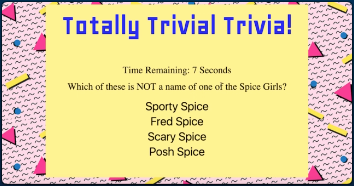
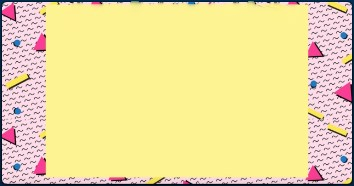
Attempting to place candy objects into collection of objects inside of the game object.

diff --git a/assets/javascript/app.js b/assets/javascript/app.js
@@ -3,14 +3,102 @@ $(document).ready(function(){
     /*******************/
     /****   VARS    ****/
     /*******************/
-    var ansCorrect = 0; // Set at beginning of app and at restart
-    var ansInCorrect = 0; // Set at beginning of app and at restart
-    var unAnswered = 0;
-    var gameOver = false;
-    var corrAnsButtonNum = 0; // Will be randomized
-    var wrongAnsButtonNums = []; // 
-    var candyObjArr = []; // An array of objects, pushed on after being generated, access via index for randomness
-    var ansLocSelected;  // Count up to 4 or start at 4 and quit when it's zero...
+    // Game Object: SET Game parameters with list of 10 of the 16 possible raw candy objects
+    var gameObj = {
+        // Vars
+        // Game Size, Raw Candy Bar Instantiations, and how many will be selected per game
+        numOfRawCandy    : 16,
+        numOfQsPerGame   : 10,
+        numOfAnsPerQ     : 4,  // This may become randomized later, but for now, we're starting with fixed at 4
+        gameQListNums    : [], // Index numbers for which 10 of the 16 candy objects will be used in this game.
+        gameQsObjectsObj : {}, // Collection in an object of the actual Candy object of each candy / question in this game
+        objNamesArr      : [], // Capture the object names we created while consuming raw candy in an array
+
+        // Methods
+    
+        fillAllWrongAns  : function() {
+            for (var j=0; j< this.gameQListNums.length; j++) {
+                console.log("this.gameQListNums[j] = " + this.gameQListNums[j] + " j = " + j)
+                console.log("this.objNamesArr[this.gameQListNums[j]] = " + this.objNamesArr[this.gameQListNums[j]])
+                // this.objNamesArr[this.gameQListNums[j]].fillWrongAnsStrArr();
+                console.log("NamesArr[QListNum[j]] = " + this.objNamesArr[this.gameQListNums[j]]); //Where is NAME / function ???
+                console.log("========================================================")
+                console.log(Object.keys(gameObj.gameQsObjectsObj[j]));
+                console.log("========================================================")
+                console.log("this.QsObjObj[j] = " + this.gameQsObjectsObj[j]);
+                // this.gameQsObjectsObj[j]fillWrongAnsStrArr();
+            };
+        },
+
+        fillPresentedAns : function () {
+            for( var k=0; k < this.gameQListNums.length; k++) {
+                for( var ii = 0; ii < this.numOfAnsPerQ; ii++) {
+                    if ( ii === this.gameQsObjectsObj[k].corrAnsLoc) {
+                        this.gameQListNums[k].presentedAnswers[ii] = this.gameQListNums[k].name;
+                    } else {
+                        this.gameQListNums[k].presentedAnswers[ii] = this.gameQListNums[k].wrongAnsStrArr[ii];
+                    }
+                };
+            };
+        },
+
+        genQListArr      : function () {
+            this.getRandNoRepeat( this.numOfQsPerGame, this.numOfRawCandy, this.gameQListNums)
+        },
+
+        getRandNoRepeat : function( numOfItems, rangeIn, arrayToFill ) {
+            // Get First one, then enter loop to get rest that checks 
+            // against what has already been generated for no duplicate
+            // numbers.
+            var numOfItemsFound = 0;
+            var randNum = Math.floor(Math.random() * rangeIn); // Get the first one...
+            arrayToFill.push(randNum); 
+            numOfItemsFound++;
+            // Then enter loop
+            while( numOfItemsFound < numOfItems ) {
+                randNum = Math.floor(Math.random() * rangeIn);
+                var found = false;
+                for (var i=0; i<arrayToFill.length; i++) {
+                    if (randNum === arrayToFill[i] )
+                        found = true;
+                };
+                if (!found) {
+                    arrayToFill.push(randNum);
+                    numOfItemsFound++;
+                };
+                console.log("arrayToFill = " + arrayToFill)
+            };
+        },
+
+        setCorrAnsLoc    : function() {
+            // Range in is the number of buttons / choices per question
+            return getRandNum(this.numOfAnsPerQ);
+        }
+    };
+
+    // Game stats
+    gameStats= {
+        // Vars
+        totalQsToAsk  : gameObj.numOfQsPerGame, // 10, // Could be randomized later
+        ansCorrect    : 0, // Set at beginning of app and at restart
+        ansInCorrect  : 0, // Set at beginning of app and at restart
+        unAnswered    : 0,
+        gameOver      :  false,
+        // Methods 
+        totalQsCmpl   : function () {ansCorrect + ansInCorrect + unAnswered}
+    };
+
+
+
+    // // TBD IF NEEDED... Question Object's Properties Initialization
+    // var corrAnsButtonNum = 0; // Will be randomized
+    // var wrongAnsButtonNums = []; // 0 to 3 excluding the correct answer locaton
+    // var candyObjArr = []; // An array of 16 objects, pushed on after being generated, access via index for randomness
+    // var ansLocSelected;  // Answers per question (up to 4) or start at 4 and quit when it's zero...
+    // // This games vars initialization
+    // var thisGamesQsArr = []; // 10 non-repeating random numbers from 0 to 15
+    // var thisQsWrongAnsArr = []; // 3 of 0 to 15 candy objects, re-used 10 times durinvg init of this game
+
 
     // Raw data for app
     // &#39; for ' - Apostrophe / Single Quote
@@ -19,20 +107,20 @@ $(document).ready(function(){
     // Odds starting at 1 are clues for the preceding candy name.
     var rawCandy = [
 	"Twix" , "Which candy claimed to have &#34chocolate, caramel and a surprising cookie crunch&#34?" ,
-	"Reese&#39s Peanut Butter Cup" , "Which candy claimed to have &#34two great tastes that taste great together&#34?" ,
 	"Heath Bar" , "Which candy had &#34a taste so good, it speaks for itself&#34?" ,
-	"Hershey&#39s" , "Which candy was called the “Great American Candy Bar&#34?" ,
 	"Snickers" , "Which candy &#34Really Satisfies&#34?" ,
 	"Milky Way" , "Which candy claimed &#34You can almost hear it moo&#34?" ,
-	"3 Musketeers" , "Which candy claimed that with &#343 big pieces, it&#39s a candy treat that can&#39t be beat&#34?" ,
 	"Kit Kat Bar" , "Which candy made you say “Give me  a break&#34?" ,
 	"Oh, Henry" , " Which candy claimed “What makes it big, makes it good&#34?" ,
-	"M\&M&#39s" , "Which candy claimed that it “Melts in your mouth, not in your hand&#34?" ,
-	"Mound&#39s" , "Which candy claimed “Sometimes you feel like a nut, sometimes you don&#39t&#34?" ,
 	"Skittles" , "Which candy claimed “Taste the Rainbow&#34?" ,
 	"Carmello" , "Which candy claimed you could “Stretch it Out&#34?" ,
-	"100 Grand Bar" , "Which candy claimed to be “extra-rich in caramel&#34?" ,
 	"Nestle Crunch Bar" , "Which candy asked “Who taught chocolate to talk a lot?&#34?" ,
+	"Reese&#39s Peanut Butter Cup" , "Which candy claimed to have &#34two great tastes that taste great together&#34?" ,
+	"Hershey&#39s" , "Which candy was called the “Great American Candy Bar&#34?" ,
+	"3 Musketeers" , "Which candy claimed that &#34With 3 big pieces, it&#39s a candy treat that can&#39t be beat&#34?" ,
+	"M\&M&#39s" , "Which candy claimed that it “Melts in your mouth, not in your hand&#34?" ,
+	"Mound&#39s" , "Which candy claimed “Sometimes you feel like a nut, sometimes you don&#39t&#34?" ,
+	"100 Grand Bar" , "Which candy claimed to be “extra-rich in caramel&#34?" ,
 	"York&#39s Peppermint Pattie" , "Which candy told you to “Get the Sensation&#34?"
     ];
 
@@ -40,12 +128,13 @@ $(document).ready(function(){
     /**** FUNCTIONS ****/
     /*******************/
     // Candy Object Constructor
-    function  Candy ( name, clueIn, corrLocNum, wrongLocsArr, wrongAnsArr ) {
-        this.name          = name;
-        this.clue          = clueIn; // 'Long' text string question: "Which candy...""
-        this.corrAnsLoc    = corrLocNum; // Will be randomized 0 to 3 for which answer button to populate
-        this.wrongAnsLocs  = wrongLocsArr; // Array of 3 values 0 to 3 possible answer locations EXCLUDING corrLocNum
-        this.wrongNames    = wrongAnsArr; // Array of 3 strings from Candy.name of 0 to 16 possible candy objects
+    function  Candy ( name, clueIn, corrLocNum, wrongAnswerArrNums, wrongAnsStringArr ) {
+        this.name             = name;
+        this.clue             = clueIn; // 'Long' text string question: "Which candy...""
+        this.corrAnsLoc       = corrLocNum; // Will be randomized 0 to 3 for which answer button to populate
+        this.wrongAnsNumsArr  = wrongAnswerArrNums; // Array of 4 values 0 to 15, no-repeat; Is which candyObjArr[item] to get a name from
+        this.wrongAnsStrArr   = wrongAnsStringArr; // Array of 4 strings from Candy.name of 0 to 16 possible candy objects
+        this.presentedAnswers = [];
     } ;
 
     // Candy Object Methods
@@ -58,101 +147,79 @@ $(document).ready(function(){
     };
 
 
+    function getRandNum (rangeIn) {
+        return Math.floor(Math.random() * rangeIn); // Correct answer location in 0 to 3
+    };
 
-    // Candy Bar Instantiations
-    var numOfRawCandy = 16;
-    console.log("numOfRawCandy = " + numOfRawCandy);
+    function fillWrongAnsStrArr () {
+        for (var i=0; i< gameObj.numOfAnsPerQ; i++) {
+            gameObj.gameQsObjectsObj[0].wrongAnsStrArr[i] = gameObj.gameQsObjectsObj[ this.wrongAnsNumsArr[i] ];
+        }
+    };
 
+
+
+    // Generate candy objects...
     function consumeRawCandy(numOfRawCandyIn) {
         console.log("numOfRawCandyIn = " + numOfRawCandyIn);
         var newObjName = "";
+        var objCount = 0;
         for ( var i=0; i < 2*numOfRawCandyIn; i=i+2) {
-            var newObjNameRaw = rawCandy[i];
+            var newObjNameRaw = rawCandy[i]; // This is just the candy NAME, some with multiple words
             newObjNameRaw = newObjNameRaw.split(" "); //.join(""); //, rawCandy[i] );
-            // newObjName = newObjName[0].toLowerCase() + newObjName[1-newObjName.length-1].name;
             newObjNameRaw[0] = newObjNameRaw[0].toLowerCase(); // Better way to make first letter lowercase
             console.log("newObjNameRaw = " + newObjNameRaw); // WORKS
             var concatNewObjName = "";
-            for ( ii=0; ii<newObjNameRaw.length; ii++) {
+            for ( var ii=0; ii<newObjNameRaw.length; ii++) {
                 concatNewObjName += newObjNameRaw[ii];
                 newObjName = concatNewObjName;
             };
-            console.log("concatNewObjName = " + concatNewObjName + "; newObjName = " + newObjName);
-            wrongAnsArr = ["Big", "Bad", "Bear"]
-            var newObjName = new Candy( rawCandy[i], rawCandy[i+1], 0, [1, 2, 3], wrongAnsArr);
+            gameObj.objNamesArr.push(newObjName);
+            console.log("concatNewObjName = " + concatNewObjName + "; newObjName = " + newObjName );
+            console.log("gameObj.objNamesArr[objCount] = " + gameObj.objNamesArr[objCount] + "  objCount = " + objCount);
+            var corrAnsLoc = gameObj.setCorrAnsLoc();
+            var wrongAnsArrNums = [];
+            gameObj.getRandNoRepeat(gameObj.numOfAnsPerQ, gameObj.numOfQsPerGame, wrongAnsArrNums);
+            // gameObj.getRandNoRepeat(3, 4, wrongAnsArrNums);
+            console.log("In consumeRaWCandy, wrongAnsArrNums = " + wrongAnsArrNums);
+            wrongAnsArr = ["Big", "Bad", "Bear"];
+            var newObjName = new Candy( rawCandy[i], rawCandy[i+1], corrAnsLoc, wrongAnsArrNums, wrongAnsArr);
             console.log("newObjName.name = " + newObjName.name );
-            newObjName.printStats();
+            // gameObj.gameQsObjectsObj.push(newObjName);
+            gameObj.gameQsObjectsObj[objCount] = newObjName; // "Compiles"
+            console.log("******************************");
+            console.log(gameObj.gameQsObjectsObj[objCount]);
+            console.log("******************************");
+            // newObjName.printStats(); // BOTH THESE WORK
+            // gameObj.gameQsObjectsObj[objCount].printStats();
+            objCount++;
         };
     };
 
     // Call my consumeRawCandy function here...
-    consumeRawCandy(numOfRawCandy); // This call and the function WORK, 09/09/18
-    // corrAnsLoc, randArr0to3, wrongAnsArr["Big", "Bad", "Bear"]);
-    // twix.printStats();
+    consumeRawCandy(gameObj.numOfRawCandy); // This call and the function WORK, 09/09/18
 
+    gameObj.genQListArr();
+    // Display this games parameters
+    console.log("Display this games parameters...")
+    console.log("gameObj.numOfRawCandy = " + gameObj.numOfRawCandy);
+    console.log("gameObj.numOfQsPerGame = " + gameObj.numOfQsPerGame);
+    console.log("gameObj.gameQListNums = " + gameObj.gameQListNums);
 
-    
-    // Populate the Objects - via FOR-loops
+    // Populate the Objects wrong answers and presented answers - via FOR-loops
+    // Populate the game object wrong answer names array with the text values of the wrongAnsArrNums
+    gameObj.fillAllWrongAns();
+    // Now populate the gameQsObjectsObj[x].presentedAns to complete the gameQsObjectsObj[x] item.
+    gameObj.fillPresentedAns(); // This places the correct name at the correc answer's loc and wrong answers in the other three locations
 
-    // From Snow White for Reference
-    // =================================
-    // dwarfNum: [],
-    // dwarfsFound: 0, // Count of ints found for randomization of DWARFS
-    // actNum: [], // Separate random number for randomizing the activity, too
-    // actsFound: 0, // Count of ints found for randomization of ACTIVITIES
-    // randNum : 0,  // Used for both randomizaions
-    // =================================
-    // corrAnsLoc:       Single random number 0 to 3 corresponding to the button # for correct answer
-    // randArr0to3:       Array of 3 numbers 0 to 3 EXCLUDING the current value of corrAnsLoc
-    // wrongNamesNumbArr: 0 to 15, which candyObjArr[item] to get a name from
-    // From Snow White for Reference
-    // =================================
-    // dwarfNum: [],
-    // dwarfsFound: 0, // Count of ints found for randomization of DWARFS
-    // actNum: [], // Separate random number for randomizing the activity, too
-    // actsFound: 0, // Count of ints found for randomization of ACTIVITIES
-    // randNum : 0,  // Used for both randomizaions
-    // =================================
+    // Test Code: console.log all the objects in the gameObj.gameQsObjectsObj[jj], S/B 10 Items
+    for (var jj=0; jj<gameObj.gameQsObjectsObj.length; jj++) {
+        console.log("============= Start of Question Object ===============");
+        console.log(gameObj.gameQsObjectsObj[jj]);
+        console.log("============= Start of Question Object ===============");
+    }
 
-        // Number of buttons / choices per question
-    // var numOfAns = 4; // This may become randomized later, but for now, we're starting with fixed at 4
-    
-        // Get first number for the button on which to place the correct answer
-    // var randNum0to3 = Math.floor(Math.random() * numOfAns); // Correct answer location in 0 to 3
-    // var corrAnsLoc = randNum0to3; // Button number of correct answer
-    
-        // Now we need an array with random numbers 0 to 3, EXCLUDING corrAnsLoc, the one just generated
-        // for which button name/number (0 to 3) to place each wrong answer on
-    // var wrongAnsLocArr = []; // For 3 values of index 0 to 3 (4 possible index before comparing with correct answer location)
-    // var randNum = 0;
-        // var wrongAnsObjNumArr = []; // For 16 values of candyObjArr items
-    // randNum = Math.floor(Math.random() * this.dwarfName.length);
-    // wrongAnsLocArr.push(randNum);
-    // ansLocSelected++;
-
-    // while (this.dwarfsFound < this.dwarfName.length) {
-    //     this.randNum = Math.floor(Math.random() * numOfAns);
-    //     var found = false;
-    //     for (i=0; i< this.dwarfNum.length; i++) {
-    //         if (this.randNum === this.dwarfNum[i] )
-    //             found = true;
-    //     };
-    //     if (!found) {
-    //         this.dwarfNum.push(this.randNum);
-    //         this.dwarfsFound++;
-    //     };
-    // };
-
-    // var wrongAnsObjNumArr = []; // For 3 values of the 16 candyObjArr items indexed 0 to 15
-    // var whichCandyObjItemsToAskArr = []; // For 10 values of candyObjArr items
-    // var candyQuestionsArr = []; // For the 10 questions for this round of the game
-
-    // Now we need an array of three numbers between 0 and 15 to index into the candyObjArr
-    // and select those candy names to become the wrong answer.
-    // This selection of 3 must exclude the question item we are presenting (0 to 9)
-
-    // Now we need an array of 10 numbers selected from the values of 0 to 15 to identify
-    // the candyObjArr[] items we will use as questions for this game!
+    // Now use jQuery to populate the HTML elements via tag class or id...
 
 
 
@@ -166,4 +233,29 @@ $(document).ready(function(){
         // Initialize Attributes / Classes
 
     } );
+
+    $(".button-sel-answer").on("click", function() {
+        // Identify button clicked
+
+
+        // Compare this button number with the correct answer button number for this question
+        // if ( ) {
+
+        // Increment appropriate answer count
+        // ansCorrect++;
+        // ansInCorrect++;
+        // unAnswered++;
+        // questionsPresented++;
+
+        // Check if all 10 questions have been asked...
+        // if ( questionsPresented <= 10 ) {
+            // continue asking questions 
+    // } else {
+        // declare game won or lost
+        // gamesWon++;
+        // gamesLost++
+        // ask to play again
+    // }
+    } );
+
 } ); // End of Document Ready

diff --git a/README.md b/README.md
@@ -3,3 +3,8 @@ Sugar Rush ACandy Trivia Game
 * 09/09/18 Basic Bootstrap Layout and (temp?) background pic.
 * 09/09/18 Added raw candy data and function to read it in,
            make objects, and print current status.
+*09/14/18 Working on code to place new Candy prototype 
+	   object into an object of candy objects inside the game object.
+	   Can generate random numbers and store them in the candy object,
+	   but cant get the candy object to be placed with its property
+	   value pairs into the Object wher eI'm collecting these candy objects.
